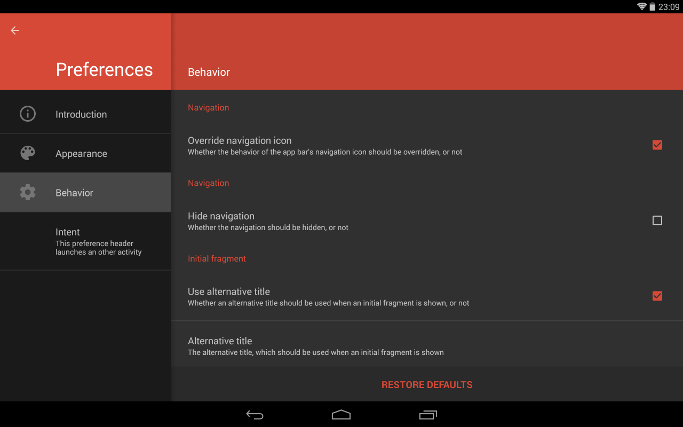
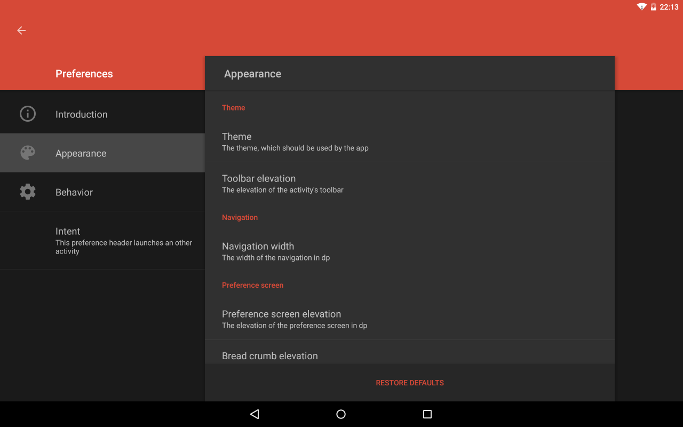
Updated images.

diff --git a/doc/index.html b/doc/index.html
@@ -29,11 +29,11 @@
                  <p>"AndroidPreferenceActivity" is an Android-library, which provides an alternative implementation of the Android SDK's built-in <tt>PreferenceActivity</tt>. Such an activity provides a visualization of categorized preferences. The appearance of the activity varies depending on the size of the device's display. On devices with small screens, e.g. on smartphones, the navigation is designed to use the whole available space and selecting an item causes the corresponding preferences to be shown full screen as well. On devices with large screens, e.g. on tablets, the navigation and the preferences of the currently selected item are shown split screen instead. Although the library's API is 
 designed to be similar to the API of the Android SDK's PreferenceActivity, it provides additional possibilities, beyond the functionalities of the original. This includes easier adaption of the activity's appearance, as well as the possibility to use the activity as a wizard and to add or remove the activity's preference headers dynamically at runtime. Since version 2.0.0 the activity's UI is designed according to the Android 5 "Material Design" guidelines (even on pre-Lollipop devices). The screenshot below illustrates the default appearance of the activity, which is provided by the library, on a tablet.</p>
 
-                 <p><center><a href="images/example-tablet.png" target="_blank".><img src="images/example-tablet-dark.png" width=640" alt="Example"></center></a></p>
+                 <p><center><a href="images/example-tablet.png" target="_blank".><img src="images/example-tablet.png" width=640" alt="Example"></center></a></p>
 
                  <p>The screenshots below show the appearance of the library's <tt>PreferenceActivity</tt> when used on a smartphone:</p>
 
-                 <p><center><a href="images/example-smartphone.png" target="_blank".><img src="images/example-smartphone-dark.png" width="640" alt="Example"></center></a></p>
+                 <p><center><a href="images/example-smartphone.png" target="_blank".><img src="images/example-smartphone.png" width="640" alt="Example"></center></a></p>
     
                  <p>The aim of this documentation is to offer an overview of the project's source code and to explain, how the interface, which is provided by the library, can be used and how the underlying implementations are supposed to work.</p>            
 
